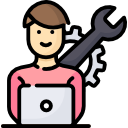
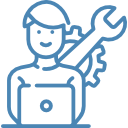
add changes

diff --git a/auto_mag/index.html b/auto_mag/index.html
@@ -122,25 +122,25 @@
 					<div class="row justify-content-around">
 						<div class="col-xl-3">
 							<div class="block">
-								<img src="images/icon-search-2.png">
+								<img src="images/icon-search.png">
 								<p class="font-color-dark">Удобный и быстрый поиск необходимых деталей</p>
 							</div>
 						</div>
 						<div class="col-xl-3">
 							<div class="block">
-								<img src="images/icon-order-1.png">
+								<img src="images/icon-online.png">
 								<p class="font-color-dark">Возможность  сделать предварительный заказ, не выходя из дома</p>
 							</div>
 						</div>
 						<div class="col-xl-3">	
 							<div class="block">
-								<img src="images/icon-bill.png">
+								<img src="images/icon-settings.png">
 								<p class="font-color-dark">Мы предлагаем качественную продукцию по доступным ценам</p>
 							</div>
 						</div>
 						<div class="col-xl-3">	
 							<div class="block">
-								<img src="images/icon-support-4.png">
+								<img src="images/icon-online-support.png">
 								<p class="font-color-dark">Менеджеры нашего call-центра оперативно подберут нужные запчасти и подскажут где их можно забрать</p>
 							</div>
 						</div>	
@@ -153,7 +153,7 @@
 					<hr>
 					
 						<div class="auto-center">
-							<img src="images/car-bgrd.png">
+							<img src="images/car-bgrd-1.png">
 						</div>
 						<div class="lot-1 absolute">
 								<img src="images/icon-autopart-9.png">
@@ -315,7 +315,7 @@
 					<div class="row justify-content-center">
 						<div class="col-xl-2">
 							<div class="picture-block">
-								<img src="images/icon-big-question.png">
+								<img src="images/icon-browser-grey.png">
 							</div>
 							<div class="text-block">
 								<p>Позвоните нам или оставьте заявку на сайте</p>
@@ -323,12 +323,12 @@
 						</div>
 						<div class="col-xl-1 ">
 							<div class="picture-arrow-block">
-								<img src="images/icon-arrow-7.png">
+								<img src="images/icon-arrow-3.png">
 							</div>
 						</div>
 						<div class="col-xl-2">
 							<div class="picture-block">
-								<img src="images/icon-support-7.png">
+								<img src="images/icon-online-support-grey.png">
 							</div>
 							<div class="text-block">
 								<p>Наш оператор обработает Ваш запрос и оформит заказ</p>
@@ -336,12 +336,12 @@
 						</div>
 						<div class="col-xl-1">
 							<div class="picture-arrow-block">
-								<img src="images/icon-arrow-7.png">
+								<img src="images/icon-arrow-3.png">
 							</div>
 						</div>
 						<div class="col-xl-2">
 							<div class="picture-block">
-								<img src="images/icon-box-1.png">
+								<img src="images/icon-box-grey.png">
 							</div>
 							<div class="text-block">
 								<p>Отпраляем заказ удобной для Вас курьерской службой</p>
@@ -349,12 +349,12 @@
 						</div>
 						<div class="col-xl-1">
 							<div class="picture-arrow-block">
-								<img src="images/icon-arrow-7.png">
+								<img src="images/icon-arrow-3.png">
 							</div>
 						</div>
 						<div class="col-xl-2">
 							<div class="picture-block">
-								<img src="images/icon-point-of-service.png">
+								<img src="images/icon-cash-money-grey.png">
 							</div>
 							<div class="text-block">
 								<p>Оплачиваете заказ после получения и просмотра</p>

diff --git a/auto_mag/styles/css/style.css b/auto_mag/styles/css/style.css
@@ -170,11 +170,16 @@ section, footer {
   position: relative;
   height: 800px; }
 
+#suggest-container .auto-center {
+  display: block; }
+
 #suggest-container .auto-center img {
   display: block;
   position: absolute;
-  top: 42%;
-  left: 27%; }
+  top: 41%;
+  left: 30%;
+  width: 38%;
+  height: 30%; }
 
 #suggest-container .absolute {
   display: block;

diff --git a/auto_mag/styles/scss/base.scss b/auto_mag/styles/scss/base.scss
@@ -169,11 +169,17 @@ section, footer {
 	height: 800px;
 }
 
+#suggest-container .auto-center {
+	display: block;
+}
+
 #suggest-container .auto-center img {
 	display: block;
 	position: absolute;
-	top: 42%;
-	left: 27%;
+	top: 41%;
+	left: 30%;
+	width: 38%;
+	height: 30%;
 
 }
 
